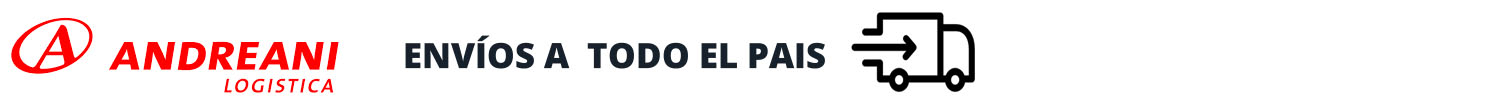
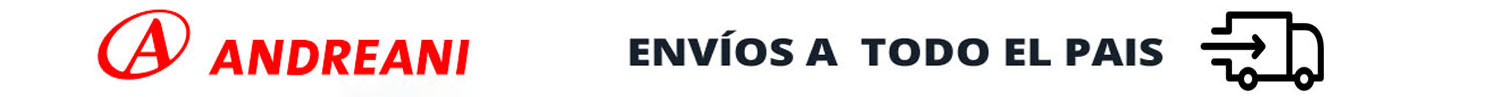
Add files via upload

Changed region(s): [[0.0, 0.0928, 0.8893, 0.9588]]

diff --git a/js/app.js b/js/app.js
@@ -68,39 +68,23 @@ document.addEventListener('DOMContentLoaded', function(){
 });
 
 
-/* === Limpia/oculta la sección central de Especificaciones === */
-function clearSpecs(){
-  const sec = document.getElementById('specs');
-  if(!sec) return;
-  const name = document.getElementById('specs-name');
-  const grid = document.getElementById('specs-grid');
-  const gal  = document.getElementById('specs-gallery');
-  if(name) name.textContent = '';
-  if(grid) grid.innerHTML = '';
-  if(gal)  gal.innerHTML  = '';
-  sec.style.display = 'none';
-}
-function showSpecs(){
-  const sec = document.getElementById('specs');
-  if(sec) sec.style.display = '';
+/* === Carousel controls binding === */
+function bindCarouselControls(carouselId, prevId, nextId){
+  const wrap = document.getElementById(carouselId);
+  const prev = document.getElementById(prevId);
+  const next = document.getElementById(nextId);
+  if(!wrap || !prev || !next) return;
+  function cardWidth(){
+    const c = wrap.querySelector('.card');
+    return c ? (c.getBoundingClientRect().width + 14) : 280;
+  }
+  prev.addEventListener('click', (e)=>{ e.stopPropagation(); wrap.scrollBy({left: -cardWidth()*1.2, behavior:'smooth'}); });
+  next.addEventListener('click', (e)=>{ e.stopPropagation(); wrap.scrollBy({left:  cardWidth()*1.2, behavior:'smooth'}); });
 }
 
-
-/* === Auto-ocultar #specs cuando no hay tarjetas abiertas === */
-function _anyCardOpen(){ return !!document.querySelector('.card.open'); }
-function _hideSpecsIfNoOpen(){
-  const sec = document.getElementById('specs');
-  if(!sec) return;
-  if(!_anyCardOpen()){
-    clearSpecs();
-  }
-}
-const _specsObserver = new MutationObserver(()=>{ _hideSpecsIfNoOpen(); });
-_specsObserver.observe(document.documentElement, {subtree:true, childList:true, attributes:true});
-document.addEventListener('click', (e)=>{
-  const insideCard = e.target.closest('.card');
-  const insideSpecs = e.target.closest('#specs');
-  if(!insideCard && !insideSpecs){
-    _hideSpecsIfNoOpen();
-  }
+document.addEventListener('DOMContentLoaded', function(){
+  try{
+    bindCarouselControls('carousel','prevBtn','nextBtn');
+    bindCarouselControls('carousel2','prevBtn2','nextBtn2');
+  }catch(e){ console.error('bind controls error', e); }
 });

diff --git a/css/banner.css b/css/banner.css
@@ -1,24 +1,14 @@
-/* Banner superior fijo y delgado */
-.top-banner{ position:fixed; top:0; left:0; right:0; height:18px;
-  background:#fff;
-  overflow:hidden;
-  z-index:9999;
-  border-bottom:1px solid rgba(0,0,0,.08);
-}
+
+.top-banner{position:fixed;top:0;left:0;right:0;height:18px;background:#fff;overflow:hidden;z-index:9999;border-bottom:1px solid rgba(0,0,0,.08);}
+
 @media(min-width:768px){ .top-banner{ height:21px; } }
 
-.top-banner__track{ display:flex; align-items:center; gap:12px; width:max-content; animation:banner-scroll 20s linear infinite; padding-left:8px; }
-.top-banner img{ height:auto; width:auto; display:block; object-fit:contain; }
+.top-banner__track{display:flex;align-items:center;gap:20px;width:max-content;animation:banner-scroll 8s linear infinite;padding-left:12px;height:100%;}
 
-@keyframes banner-scroll{
-  0%   { transform: translateX(0); }
-  100% { transform: translateX(-33.333%); }
-}
+.top-banner .top-banner__track img{height:100% !important;width:auto;display:block;object-fit:contain;}
 
-/* Empuje del contenido para no quedar tapado por el banner */
-body{ padding-top:22px; }
+@keyframes banner-scroll{0%{transform:translateX(0);}100%{transform:translateX(-33.333%);}}
+
+body{padding-top:22px;}
+
 @media(min-width:768px){ body{ padding-top:26px; } }
-
-.top-banner__track{ height:100%; }
-
-.top-banner .top-banner__track img{ height: 100% !important; width:auto; display:block; object-fit:contain; }

diff --git a/js/patch-scrolllock.js b/js/patch-scrolllock.js
@@ -1,0 +1,34 @@
+/* PATCH: lock scroll fuerte cuando se abre el cuadro .details */
+(function(){
+  let _lockY=0;
+  function lockBody(){
+    if(document.body.classList.contains('no-scroll')) return;
+    _lockY = window.scrollY || 0;
+    document.documentElement.classList.add('no-scroll');
+    document.body.classList.add('no-scroll');
+    document.body.style.top = (-_lockY)+'px';
+  }
+  function unlockBody(){
+    if(!document.body.classList.contains('no-scroll')) return;
+    document.documentElement.classList.remove('no-scroll');
+    document.body.classList.remove('no-scroll');
+    const y = -parseInt(document.body.style.top||'0',10) || 0;
+    document.body.style.top='';
+    window.scrollTo(0,_lockY||y||0);
+  }
+  document.addEventListener('click', (e)=>{
+    if(e.target.closest('.card')){
+      setTimeout(()=>{ if(document.querySelector('.card.open')) lockBody(); },0);
+    }
+    if(e.target.closest('.details-close')){
+      setTimeout(()=>{ if(!document.querySelector('.card.open')) unlockBody(); },0);
+    }
+  }, true);
+  document.addEventListener('keydown', (e)=>{
+    if(e.key==='Escape'){
+      setTimeout(()=>{ if(!document.querySelector('.card.open')) unlockBody(); },0);
+    }
+  }, true);
+  const mo=new MutationObserver(()=>{ if(!document.querySelector('.card.open')) unlockBody(); });
+  mo.observe(document.body,{subtree:true,childList:true,attributes:true,attributeFilter:['class']});
+})();

diff --git a/index.html b/index.html
@@ -11,9 +11,9 @@
 <!-- Banner superior -->
 <div class="top-banner" role="region" aria-label="información de envíos">
   <div class="top-banner__track">
-    <img src="img/Banner.jpg?v=7" alt="Andreani - Envíos a todo el país">
-    <img src="img/Banner.jpg?v=7" alt="" aria-hidden="true">
-    <img src="img/Banner.jpg?v=7" alt="" aria-hidden="true">
+    <img src="img/Banner.jpg?v=9" alt="Andreani - Envíos a todo el país">
+    <img src="img/Banner.jpg?v=9" alt="" aria-hidden="true">
+    <img src="img/Banner.jpg?v=9" alt="" aria-hidden="true">
   </div>
 </div>
 

diff --git a/css/patch.css b/css/patch.css
@@ -1,0 +1,14 @@
+/* PATCH: fondo con logo grande y scroll lock fuerte */
+body{
+  background-color:#000;
+  background-image:url("img/logo.png");
+  background-repeat:no-repeat;
+  background-position:center top;
+  background-size:200% auto; /* mucho más grande */
+}
+html.no-scroll, body.no-scroll{
+  overflow:hidden !important;
+  height:100% !important;
+  position:fixed !important;
+  width:100% !important;
+}
